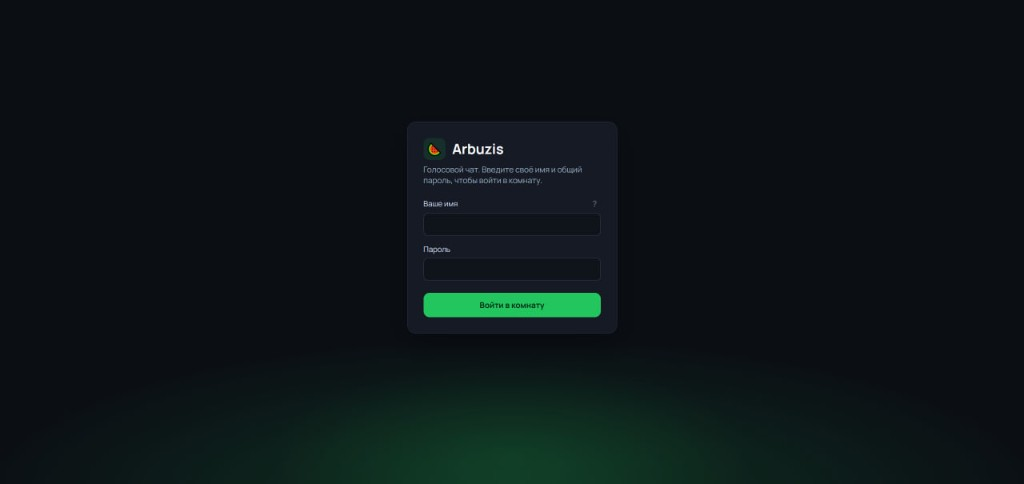
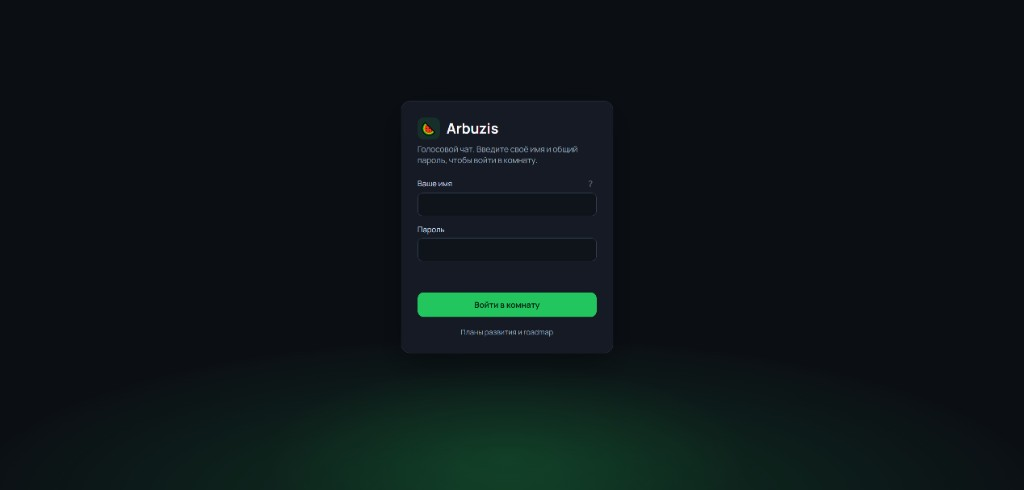
release: v2.0.0 — стабильная мажорная версия
Отсечка 2.0.0: обновлён README с описанием функционала и актуальными скриншотами, roadmap синхронизирован. Поле чата на всю ширину, макеты редизайна чата в docs/design.

Changed region(s): [[0.4062, 0.2169, 0.5625, 0.4339], [0.4062, 0.5888, 0.5938, 0.6818], [0.4062, 0.4649, 0.4375, 0.5269]]

diff --git a/src/app/pages/room/_room-chat.scss b/src/app/pages/room/_room-chat.scss
@@ -146,7 +146,9 @@
     grid-template-columns: auto minmax(0, 1fr) auto;
     align-items: center;
     gap: 0.45rem;
+    width: 100%;
     min-width: 0;
+    box-sizing: border-box;
     padding: 0.55rem 0.65rem 0.55rem 0.55rem;
     border-radius: 14px;
     border: 1px solid rgba(148, 163, 184, 0.22);

diff --git a/README.md b/README.md
@@ -1,27 +1,55 @@
-# voice-chat-arbuzis
+# Arbuzis Voice Chat
 
-Простой веб-сервис для голосового общения в одной комнате. Пользователь заходит на сайт, вводит общий пароль и имя, сразу попадает в комнату и может включать/выключать микрофон. Отображается список участников, которые уже в комнате.
+Простой веб-сервис для голосового общения в одной комнате. Пользователь заходит на сайт, вводит общий пароль и имя, попадает в комнату и общается голосом и текстом.
 
-## Скриншоты
+## Стабильная версия 2.0.0
 
-### Вход
+**v2.0.0** — первая мажорная отсечка: полноценная комната с голосом, текстовым чатом, настройками и индикаторами качества связи. Версия проверена в production на VPS.
+
+### Скриншоты
+
+#### Вход
 
 ![Экран входа](docs/screenshots/login.png)
 
-### Комната
+#### Комната
 
-![Голосовая комната](docs/screenshots/room.png)
+![Голосовая комната — участники, чат, управление](docs/screenshots/room.png)
 
-## Возможности
+### Что входит в 2.0.0
 
-- Вход по общему паролю
-- Одна комната для всех участников
-- Голосовая связь через WebRTC (LiveKit)
-- Список участников в комнате
-- Включение и выключение микрофона
-- Русский интерфейс
+**Голос**
 
-Подробнее о планах: [ROADMAP.md](ROADMAP.md) и страница `/roadmap` на сайте.
+- WebRTC через LiveKit, одна общая комната (до 5 участников)
+- Включение / выключение микрофона
+- Шумоподавление DTLN (beta), настройка в боковой панели
+- Регулировка громкости входящего звука — общая и по каждому участнику (наушники + ползунок)
+- Подсветка говорящего участника
+- Звуки интерфейса — микрофон вкл/выкл, вход участника (можно отключить)
+- Автопереподключение после блокировки экрана и возврата на вкладку
+- Wake Lock — экран не гаснет во время разговора
+
+**Участники**
+
+- Список с аватарами, цветами и уникальными именами
+- Индикатор качества соединения (полоски сигнала) у каждого участника
+- Приглашение по ссылке (копирование в буфер)
+- Настройки комнаты — шумоподавление, звуки UI
+
+**Чат**
+
+- Текстовые сообщения между участниками
+- Смайлики, удаление своих сообщений
+- Поле ввода на всю ширину панели
+
+**Интерфейс**
+
+- Тёмная тема, русский язык
+- Понятные сообщения об ошибках
+- Страница `/roadmap` с планами развития
+- Кнопка «Подключено» → «Отключиться» без сдвига вёрстки
+
+Подробнее о будущих фичах: [ROADMAP.md](ROADMAP.md).
 
 ## Стек
 
@@ -121,14 +149,15 @@ npm run dev
 ```text
 voice-chat-arbuzis/
 ├── docs/
-│   └── screenshots/        # Скриншоты для README
+│   ├── screenshots/        # Скриншоты для README
+│   └── design/             # Макеты UI
 ├── src/
 │   ├── app/
 │   │   ├── models/         # Интерфейсы домена (join, chat, participant)
-│   │   ├── types/          # Вспомогательные типы (mic-gain и т.д.)
 │   │   ├── pages/login/    # Экран входа (пароль + имя)
 │   │   ├── pages/room/     # Голосовая комната
-│   │   ├── services/       # LiveKit, API, сессия
+│   │   ├── pages/roadmap/  # Публичный roadmap
+│   │   ├── services/       # LiveKit, API, сессия, звуки
 │   │   └── guards/         # Защита маршрута комнаты
 │   └── api/                # Backend: проверка пароля, выдача токена
 ├── dev-api.ts              # Dev-сервер API
@@ -142,7 +171,7 @@ voice-chat-arbuzis/
 1. Пользователь вводит пароль и имя на `/login`.
 2. API проверяет пароль и выдаёт JWT-токен для LiveKit.
 3. Браузер подключается к LiveKit и публикует аудио с микрофона.
-4. Список участников обновляется через события LiveKit Room.
+4. Список участников и чат обновляются через события LiveKit Room.
 
 Сессия хранится только в памяти браузера — после обновления страницы (F5) или закрытия вкладки нужно войти заново.
 

diff --git a/ROADMAP.md b/ROADMAP.md
@@ -15,6 +15,8 @@
 - Подсветка говорящего участника
 - Русские сообщения об ошибках
 - Микрофон не включается сам после выключения (reconnect / вкладка)
+- Индикатор качества соединения — полоски сигнала у каждого участника
+- Приглашение по ссылке и смайлики в чате
 
 ## В разработке
 
@@ -23,7 +25,6 @@
   - Подтверждение email через Mail.ru SMTP (`smtp.mail.ru`)
   - Страницы «Регистрация» и «Вход», сессия пользователя
   - Опционально позже: кнопка «Войти через Mail.ru» (OAuth)
-- **Индикатор качества соединения** — сигнал WebRTC в шапке комнаты
 
 ## Запланировано
 